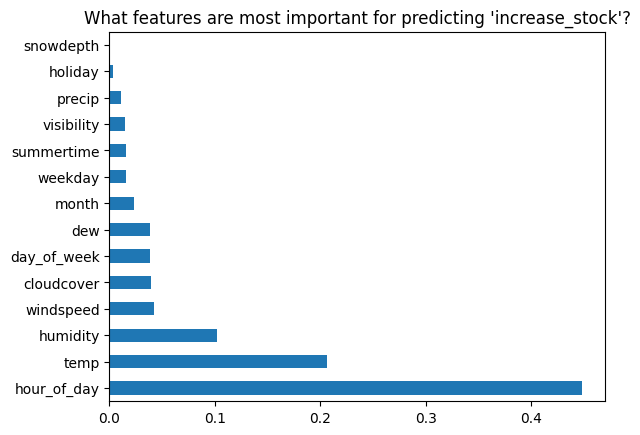
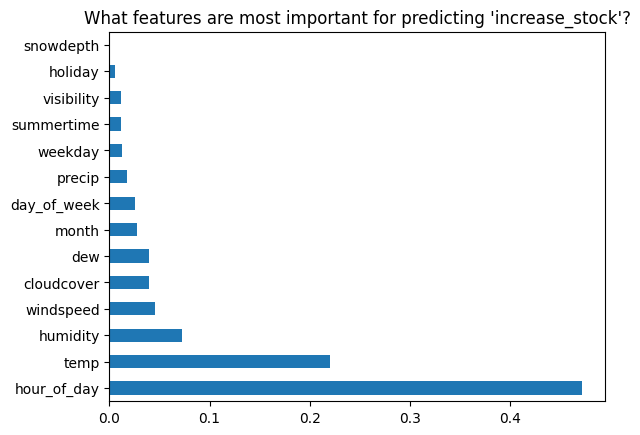
boomshakalaka

diff --git a/data_analysis.py b/data_analysis.py
@@ -7,9 +7,13 @@ from load_data import get_ready_data, create_attribute_type_dict
 
 def corr_mat(df, features):
     # Check correlation matrix of numerical attributes and target
-    corr =  df[features+["increase_stock"]].corr()
-    plt.figure(figsize=(12,8))
+    corr =  np.round(df[features+["increase_stock"]].corr(), 2)
+    plt.figure(figsize=(6,5))
+    plt.title("Correlation Matrix")
     sns.heatmap(corr, annot=True, cmap='coolwarm')
+    plt.tight_layout()
+    plt.xticks(rotation=25, ha='right')
+    plt.savefig("figures/correlation_matrix.png", bbox_inches='tight',)
     plt.show()
 
 def chi2_stats(df, features):
@@ -19,8 +23,8 @@ def chi2_stats(df, features):
     chi_scores = chi2(X, y)
 
     x = np.arange(len(X.columns))
-    fig, ax1 = plt.subplots(figsize=(12,8))
-    width=0.35
+    fig, ax1 = plt.subplots(figsize=(6,5))
+    width=0.3
     ax1.set_xlabel("Attribute")
     ax1.set_ylabel("Chi Score")
     bar1 = ax1.bar(x-width/2, chi_scores[0], width, label="Chi Score", color="blue")
@@ -32,11 +36,17 @@ def chi2_stats(df, features):
     ax2.bar_label(bar2, padding=3, fmt='%.2f')
 
     ax1.set_xticks(x)
-    ax1.set_xticklabels(X.columns, rotation=45, ha='right')
+    ax1.set_xticklabels(X.columns) #ax1.set_xticklabels(X.columns, rotation=20, ha='right')
     bars = [bar1,bar2]
     labels_legend = [b.get_label() for b in bars]
-    ax1.legend(bars, labels_legend, loc='upper right')
-    
+    ax1.legend(bars, labels_legend, loc='upper center')
+
+    ax1.set_ylim(top=ax1.get_ylim()[1] * 1.10) 
+    ax2.set_ylim(top=ax2.get_ylim()[1] * 1.10)
+
+    plt.title("Chi2 and P Scores for Categorical Features")
+    plt.tight_layout()
+    plt.savefig("figures/chi2_scores.png", bbox_inches='tight',)
     plt.show()
 
 
@@ -49,10 +59,9 @@ if __name__ == "__main__":
     cat_cols = [col for col in std_data.columns if attribute_type[col] == 'categorical' or attribute_type[col] == 'binary']
 
     corr_mat(std_data, num_cols)
-    chi2_stats(std_data, cat_cols)
+    #corr_mat(std_data, cat_cols)
+    #chi2_stats(std_data, ['holiday', 'weekday', 'summertime'])
     ''' Observations:
     - Corr matrix shows that temp and dew have high corr with target. However, they
     are also highly correlated with each other, so we might want to drop one of them.
-
-    
     '''

diff --git a/data_analysis_plots.py b/data_analysis_plots.py
@@ -67,20 +67,25 @@ def plot_monthly_avg(dataframe):
 def plot_temporal_demand(dataframe):
     fig, (ax1, ax2, ax3) = plt.subplots(3)
 
-    fig.suptitle('Vertically stacked subplots')
-
     hourly = dataframe.groupby("hour_of_day")["increase_stock"].mean().reset_index()
     ax1.plot(hourly["hour_of_day"], hourly["increase_stock"])
+    ax1.grid()
     ax1.set_title("Demand over hours of day")
 
     weekday = dataframe.groupby("day_of_week")["increase_stock"].mean().reset_index()  
     ax2.plot(weekday["day_of_week"], weekday["increase_stock"])  
     ax2.set_title("Demand over day of week") 
+    ax2.grid()
 
     monthly = dataframe.groupby("month")["increase_stock"].mean().reset_index()  
     ax3.plot(monthly["month"], monthly["increase_stock"]) 
     ax3.set_title("Demand over month")
-    plt.show()    
+    ax3.grid()
+    plt.tight_layout()
+    plt.savefig("figures/temporal_demand.png", bbox_inches='tight',)
+    plt.show()
+    plt.figure(figsize=(6,5))
+
 plot_temporal_demand(data)
 
 

diff --git a/decision_tree.py b/decision_tree.py
@@ -17,13 +17,13 @@ param_grid = {
     'max_depth': [5, 10, 15, 20, None],
 }
 
-grid_search_rf = GridSearchCV(estimator=rf_orignal_data, param_grid=param_grid, cv=5, n_jobs=-1, verbose=2, scoring='f1')
+grid_search_rf = GridSearchCV(estimator=rf_orignal_data, param_grid=param_grid, cv=5, n_jobs=-1, verbose=2, scoring='f1_macro')
 
 if __name__ == "__main__":
-    data = get_ready_extended_data()
+    data = get_ready_data()
     X = data.drop("increase_stock", axis=1)
     y = data["increase_stock"]
-    X_train, X_test, y_train, y_test = train_test_split(X, y, test_size=0.3, random_state=random_state, stratify=y)
+    X_train, X_test, y_train, y_test = train_test_split(X, y, test_size=0.3, random_state=random_state)
     grid_search_rf.fit(X_train, y_train)
     print("Best parameters found: ", grid_search_rf.best_params_)
 

diff --git a/lda_qda.py b/lda_qda.py
@@ -7,11 +7,11 @@ import matplotlib.pyplot as plt
 from load_data import get_ready_data
 
 cleaned_fil = get_ready_data()
-
+random_state = 69
 X = cleaned_fil.drop(columns=["increase_stock"])
 Y = cleaned_fil["increase_stock"]
 
-X_train, X_test, Y_train, Y_test = train_test_split(X, Y, test_size=0.3, random_state=42)
+X_train, X_test, Y_train, Y_test = train_test_split(X, Y, test_size=0.3, random_state=69)
 
 lda_model = LinearDiscriminantAnalysis()
 lda_model.fit(X_train, Y_train)

diff --git a/knn.py b/knn.py
@@ -13,11 +13,10 @@ X = cleaned_fil.drop(columns=["increase_stock"])
 Y = cleaned_fil["increase_stock"]
 
 X_train, X_test, Y_train, Y_test = train_test_split(
-    X, Y, test_size=0.3, random_state=69
-)
+    X, Y, test_size=0.3, random_state=69)
 
 pipeline = Pipeline([
-    ('scaler', StandardScaler()),
+    #('scaler', StandardScaler()), det här ingår typ redan i get_ready_data() så jag tog bort det
     ('knn', KNeighborsClassifier())
 ])
 
